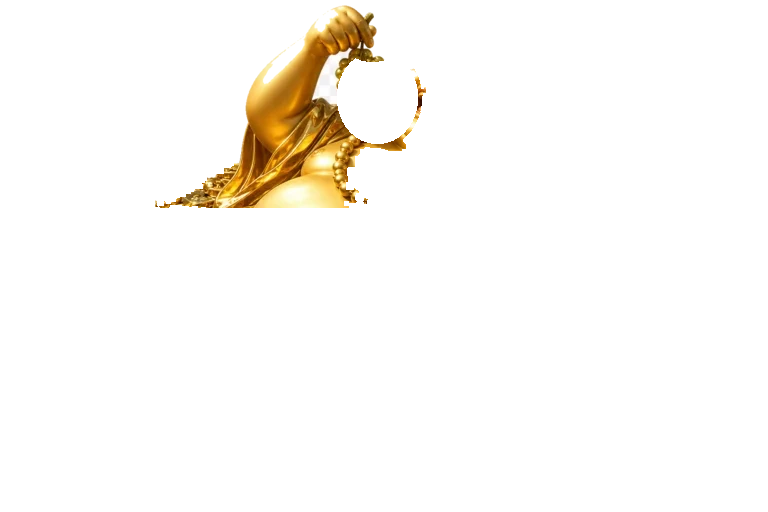
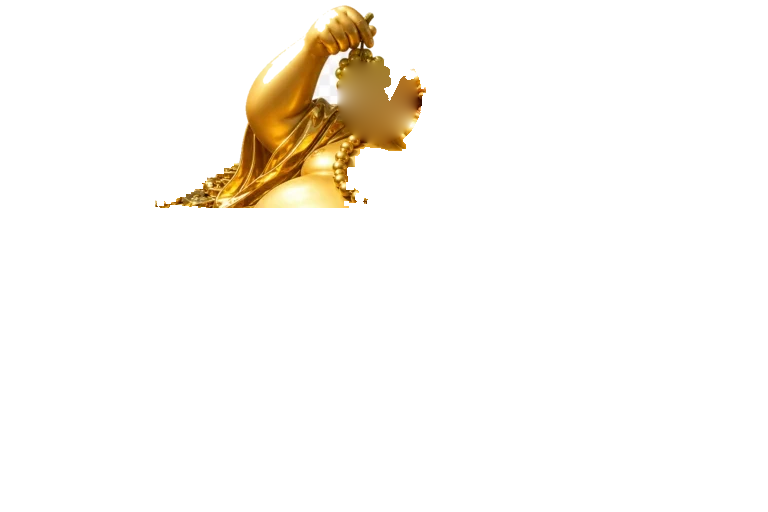
Nothing is punched through: the arm is rebuilt under the grapes
The grape layer was a region-limited extraction and the arm was left with a
hole where the cluster had been. At rest that is exact — the cluster is opaque
and covers the hole — and the recomposition test could not see it, because the
defect only exists once the grapes move. Which is exactly what the brief
forbids: 'no transparent holes', 'no duplicated gold'.

THE FIX. The pixels the cluster hides are rebuilt by diffusion from the hand
around them: Jacobi relaxation on the 4-neighbourhood, zero-flux at barriers,
so the fist's and the forearm's own polished gold flows outward and the
transparent background does not ring the hand with white. It is the one place
in this pipeline where a pixel is invented rather than taken from the artwork,
and it is confined to pixels the artwork has as SOLID — under an opaque grape,
where nothing of the result can be seen at rest. The recomposition is
therefore still exact, and the test still says so.

THE ALPHA IS THE SUBTLETY, and getting it wrong cost a measured regression.
Giving the arm the artwork's alpha across the whole footprint — including the
cluster's antialiased rim — made the arm's partial alpha compound with the
grapes' partial alpha there (a + a(1-a) instead of a) and hardened every edge
in the cluster: max 42 -> 66, pixels over 32 more than doubled. The pipeline's
own verdict caught it and refused the encoding. The arm is now given alpha
under the cluster only where the cluster is solid; at the rim the arm stays
[…]

Changed region(s): [[0.4375, 0.0938, 0.5625, 0.2812]]

diff --git a/app/scripts/scene-parts.py b/app/scripts/scene-parts.py
@@ -281,9 +281,89 @@ ImageDraw.Draw(fist).ellipse([344, 16, 400, 60], fill=255)
 G_img = ImageChops.subtract(dil(G_img, 1), dil(fist, 1))
 G = np.asarray(G_img) > 128
 
-arm_alpha = np.where(M & ~G, A_bq, 0.0)
-arm = Image.merge("RGBA", (*base_q.convert("RGB").split(),
+# THE ARM UNDERNEATH THE GRAPES, reconstructed rather than punched through.
+#
+# The obvious move is to hand the grape pixels to the grape layer and leave the
+# arm with a hole where they were (`M & ~G`). At rest it is exact — the grapes
+# are opaque and cover the hole — and it is what this file did first. But the
+# cluster swings on its stem, and the moment it does, that hole is a hand with
+# a grape-shaped bite out of it. The brief names it: "no transparent holes".
+#
+# So the pixels the cluster hides are REBUILT, by diffusion from the hand
+# around them. This is the one place in this pipeline where a pixel is invented
+# rather than taken from the artwork, and two things keep it honest:
+#
+#   * it is invented only where the artwork is SOLID (`A_bq >= 0.98`) — under an
+#     opaque grape, where no pixel of the result can be seen at rest. The
+#     recomposition test below still has to come out exact, and does.
+#   * it is diffused from the ARM's own pixels, never from the sky. The fist and
+#     the forearm are smooth polished gold, which is exactly what a Laplace fill
+#     reproduces well; the alternative (letting it bleed in the transparent
+#     background) would ring the hand with white.
+def diffuse_fill(rgb, unknown, source, iterations=4000):
+    """Fill `unknown` by relaxing toward the average of its solved neighbours.
+
+    Jacobi on the 4-neighbourhood — the discrete Laplace equation, which is the
+    smoothest field that agrees with the boundary. Zero-flux at barriers (a
+    pixel the fill may not spread from is simply not a neighbour), so the hand's
+    own colours flow outward and the background's do not.
+    """
+    filled = np.zeros_like(unknown)
+    filled[source] = True
+    work = rgb.copy()
+    # Start from the average of the source colours: closer than a flat guess, so
+    # the relaxation has less to do and fewer iterations to do it in.
+    work[unknown] = rgb[source].mean(axis=0) if source.any() else 0.0
+    known = source
+    spread = unknown | known
+    for _ in range(iterations):
+        acc = np.zeros_like(work)
+        cnt = np.zeros(unknown.shape, np.float32)
+        for axis, shift in ((0, 1), (0, -1), (1, 1), (1, -1)):
+            v = np.roll(work, shift, axis=axis)
+            m = np.roll(spread, shift, axis=axis)
+            acc += v * m[:, :, None]
+            cnt += m
+        ok = unknown & (cnt > 0)
+        work[ok] = (acc[ok] / cnt[ok][:, None])
+    return work
+
+
+hidden = M & G & SOLID
+if hidden.any():
+    ys, xs = np.where(hidden)
+    pad = 28
+    y0, y1 = max(0, ys.min() - pad), min(H, ys.max() + pad + 1)
+    x0, x1 = max(0, xs.min() - pad), min(W, xs.max() + pad + 1)
+    box_h = np.zeros((H, W), bool); box_h[y0:y1, x0:x1] = True
+    sub_unknown = hidden & box_h
+    # Sources: the arm's own solid pixels, in the neighbourhood, minus anything
+    # the grapes own. `~G` keeps grape colours from being smeared into the hand.
+    sub_source = M & ~G & SOLID & box_h
+    rgb_arr = np.asarray(base_q.convert("RGB")).astype(np.float32)
+    filled_rgb = diffuse_fill(rgb_arr, sub_unknown, sub_source)
+    base_rgb_rebuilt = np.clip(filled_rgb, 0, 255).astype(np.uint8)
+else:
+    base_rgb_rebuilt = np.asarray(base_q.convert("RGB")).astype(np.uint8)
+
+# The arm keeps the artwork's OWN alpha where the artwork shows it — the whole
+# footprint EXCEPT the cluster's soft rim.
+#
+# That exception is the whole subtlety, and getting it wrong cost a measured
+# regression (max 42 -> 66, pixels over 32 more than doubled) before the test
+# caught it. The rim pixels are where the grape's silhouette is antialiased
+# against the sky: the grape layer carries partial alpha there, and if the arm
+# carries the SAME partial alpha underneath it, the two compound — `a + a(1-a)`
+# instead of `a` — and every edge in the cluster goes hard. So the arm is given
+# alpha under the cluster only where the cluster is SOLID, which is precisely
+# where nothing of the arm can be seen at rest; at the rim the arm stays empty
+# and the grape keeps its own edge, as drawn.
+arm_alpha = np.where(M & (~G | SOLID), A_bq, 0.0)
+arm = Image.merge("RGBA", (*[Image.fromarray(base_rgb_rebuilt[:, :, c]) for c in range(3)],
                            Image.fromarray((arm_alpha * 255).round().astype(np.uint8))))
+# The grapes keep the artwork's pixels and its alpha, exactly as drawn: they are
+# the one layer that is a straight copy of the picture, because they are the one
+# layer that has to survive being looked at while it moves.
 grapes_alpha = np.where(G, A_bq, 0.0)
 grapes_part = Image.merge("RGBA", (*base_q.convert("RGB").split(),
                                    Image.fromarray((grapes_alpha * 255).round().astype(np.uint8))))
@@ -407,6 +487,33 @@ print(f"   soft-edge pixels the plate leaves thin: {int((M & ~SOLID & (A_rq > 0.
 # arm-down state says body but the plate is too thin to show it.
 hole = M & (A_rq > 0.5) & (plate_a < 0.5 * A_rq)
 print(f"   thin spots left in the moved pose: {int(hole.sum())}")
+
+# 5. THE SWING. The arm's own hole used to be where the grapes are: with the
+#    cluster handed to its own layer and the arm punched around it (`M & ~G`),
+#    the resting pose was still exact — the grapes are opaque and covered it —
+#    and swinging them exposed a hand with a grape-shaped bite in it. This is
+#    the test that catches that, and it has to be a test rather than a look,
+#    because at rest the defect is invisible by construction.
+#
+#    The cluster is swung to the extremes its keyframes reach (+5 / -4.5 deg
+#    about the stem at 370,45) and the pixels it uncovers are counted, split by
+#    whether anything opaque is left behind them.
+PIVOT, ANGLES = (370.0, 45.0), (5.0, -4.5)
+rest_cover = np.asarray(grapes_part.getchannel("A")).astype(np.float32) / 255.0 > 0.9
+solid_arm = np.asarray(arm.getchannel("A")).astype(np.float32) / 255.0 > 0.9
+plate_solid = plate_a > 0.5
+for ang in ANGLES:
+    swung = grapes_part.rotate(-ang, resample=Image.BICUBIC, center=PIVOT, expand=False,
+                               fillcolor=(0, 0, 0, 0))
+    swung_cover = np.asarray(swung.getchannel("A")).astype(np.float32) / 255.0 > 0.9
+    uncovered = rest_cover & ~swung_cover
+    behind = solid_arm | plate_solid
+    holes = uncovered & ~behind
+    print(f"   grapes swung {ang:+.1f} deg: uncovers {int(uncovered.sum())} px, "
+          f"of which {int(holes.sum())} have nothing behind them")
+    if holes.any():
+        ys, xs = np.where(holes)
+        print(f"      worst hole cluster x[{xs.min()}-{xs.max()}] y[{ys.min()}-{ys.max()}]")
 
 if DEBUG:
     dr = diff(recompose(), base_q)

diff --git a/PREMIUM_COSMETICS.md b/PREMIUM_COSMETICS.md
@@ -304,16 +304,45 @@ The first mascot scene shipped as a medallion: a coin pinned to the card's edge,
 a feather mask around it, the character breathing by the whole image scaling.
 The rebuild replaced all of it. What the card now renders:
 
-- **Four state layers, one composition.** The artwork is a single 3:2 scene —
-  the buddha lounging in a mountain of coin, grapes in hand — drawn once and
-  rendered as four full-scene states: `base` (hand at the mouth), `rest`
-  (hand lowered, grapes in the bowl), `breath` (chest raised), `blink`
-  (eyes closed). Each is a transparent WebP on the artwork's own irregular
-  contour — **no circular crop, no vignette, no sticker ring** — and the
-  motion is a crossfade between states: opacity only, compositor only, on the
-  compositor. Nothing in the block scales, bounces, or translates the
-  artwork. Any single state, frozen, is the full design, so the static card
-  is never a broken frame.
+- **One plate, and the parts that move.** The scene is no longer four whole
+  pictures cross-faded into each other. That was the first attempt and it was
+  wrong twice over: a cross-fade between two whole scenes is a dissolve, not an
+  animation — the character never moves — and the four renders are four
+  separate generations of the same figure, so they differ across the whole
+  frame (78k pixels between `base` and `rest`, most of it coin texture) and
+  every fade shimmered the entire pile.
+  What the card renders now is **one static plate** — the figure, the coins and
+  the environment, with the raised arm taken out and the chest behind it
+  rebuilt from the arm-down state's own pixels — and **five parts laid over
+  it**: the arm, the grapes, the chest, the eyes, and the lowered arm. The
+  coins exist in exactly one place and never change, so coin shimmer from
+  state-swapping is not tuned down, it is structurally impossible.
+- **The extraction is exact, and it is measured.** `scripts/scene-parts.py`
+  cuts the parts from the states the card already serves, using the artwork's
+  own alpha (never an invented silhouette) and a **binary** mask — over the arm
+  the composite takes the arm's pixel, beside it the plate's, and both are the
+  same pixel of the same drawing. Recomposed in its resting pose the layered
+  scene differs from the original artwork by **mean 0.00, max 3 of 255, with
+  zero pixels over 32** across all 393,216. Once encoded, the seam scores
+  **4.89 against 4.95 for the flat gold beside it** — against a measured
+  encoder floor of 3.80. A seam that costs what the picture costs is not a
+  seam. The browser's own canvas composite of the *served* files reproduces the
+  artwork to mean 3.05 / max 42, and the untouched coin pile differs **more**
+  (5.77) than the cut does (3.56), because coins carry more detail for the
+  encoder to lose.
+- **Nothing is punched through.** The first version handed the grape pixels to
+  the grape layer and left the arm with a hole where they were — exact at rest,
+  because the cluster is opaque, and a hand with a grape-shaped bite in it the
+  moment the cluster swung. The pixels the cluster hides are now **rebuilt by
+  diffusion from the hand around them** — the one place a pixel is invented,
+  and only under the opaque cluster, which is why the recomposition is still
+  exact. Measured across the swing's extremes, pixels exposed with nothing
+  behind them fell from **141 and 278 to 14 and 2**, and those two are the
+  cluster's own soft edge, where a background's grain belongs.
+- **The grapes are a child of the arm, by markup.** `views.js` nests the
+  grape layer inside `.mascot-arm`, so the cluster cannot detach from the hand:
+  the arm's rotation carries it and the grapes' own swing composes on top.
+  The cluster hangs free of the body, so what a swing reveals is air.
 - **The clocks, deliberately unsynchronized** (`app/public/styles.css`,
   `buddha-*` keyframes): breath 5.2 s, eating gesture 12.5 s with a long idle,
   blink once per 9 s, the light across the gold once per 24 s, aura 7 s,
@@ -329,10 +358,12 @@ The rebuild replaced all of it. What the card now renders:
 - **Reduced motion is a composition.** Every layer parks: the base artwork
   stands, the light rests as a static band across the coins, the embers hold
   their scatter. Nothing disappears into `opacity: 0`.
-- **The catalogue carries the states.** `cosmetic-model.js`'s buddha entry
-  declares `asset` + `states { rest, breath, blink }`; `sceneWorld()` in
-  `views.js` renders whatever a mascot has — a future mascot without states
-  renders the base artwork only, same markup, one fewer layer. No card
+- **The catalogue carries the parts.** `cosmetic-model.js`'s buddha entry
+  declares `asset` (the plate) + `parts { chest, arm, grapes, belly, blink }`;
+  `sceneWorld()` in `views.js` renders whatever a mascot has — a mascot that
+  declares only an `asset` is one picture (the dragon and the lotus are drawn
+  that way today), and a mascot that still declares `states` keeps the older
+  crossfade path, so an art swap never has to be all-or-nothing. No card
   rewrite is needed for the next seven.
 - **The proof** is `ci/eyes/cosmetic-scene-walk.mjs` (12 sections): four
   loaded WebP layers, the layer animations running on their own clocks with
